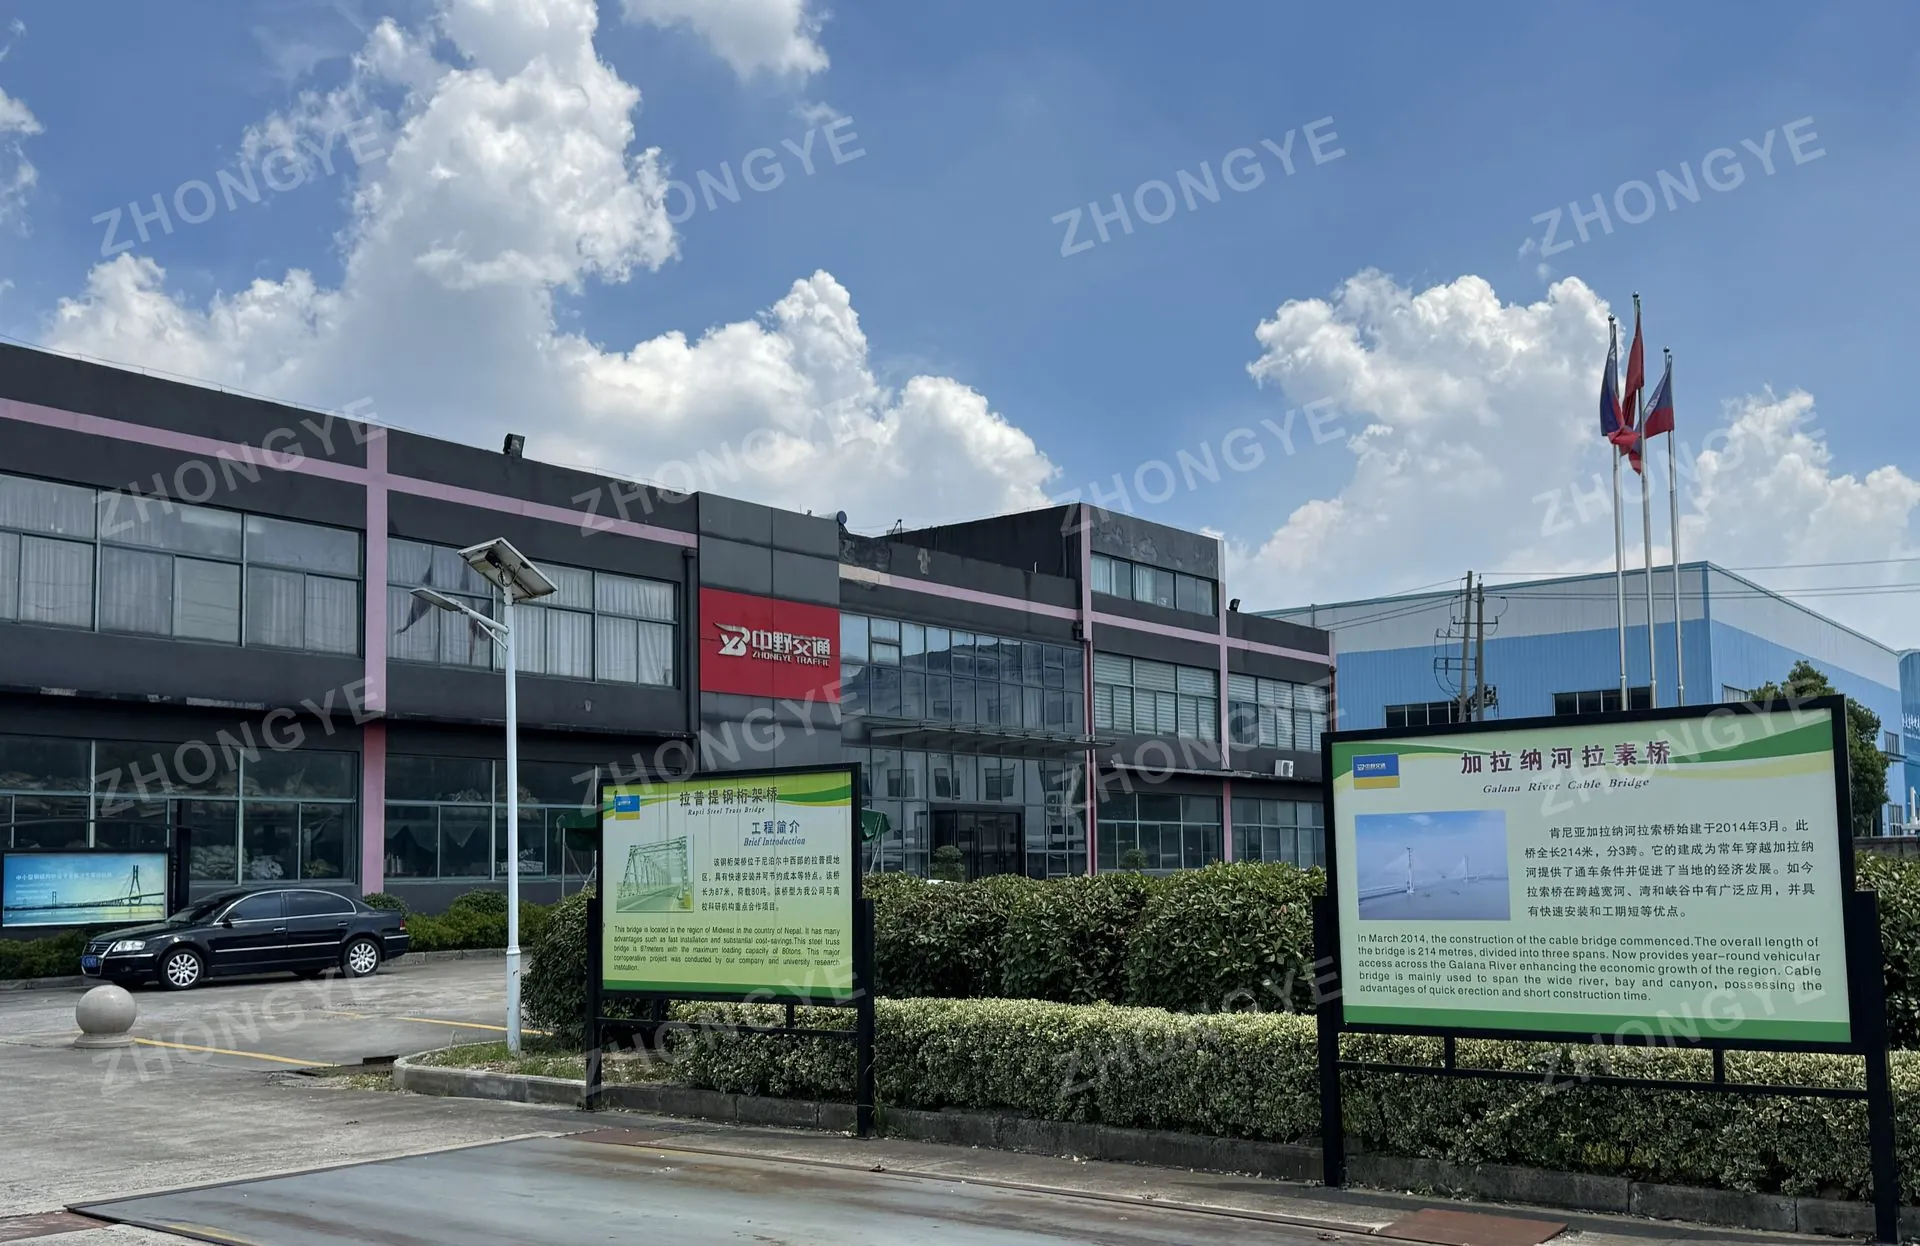
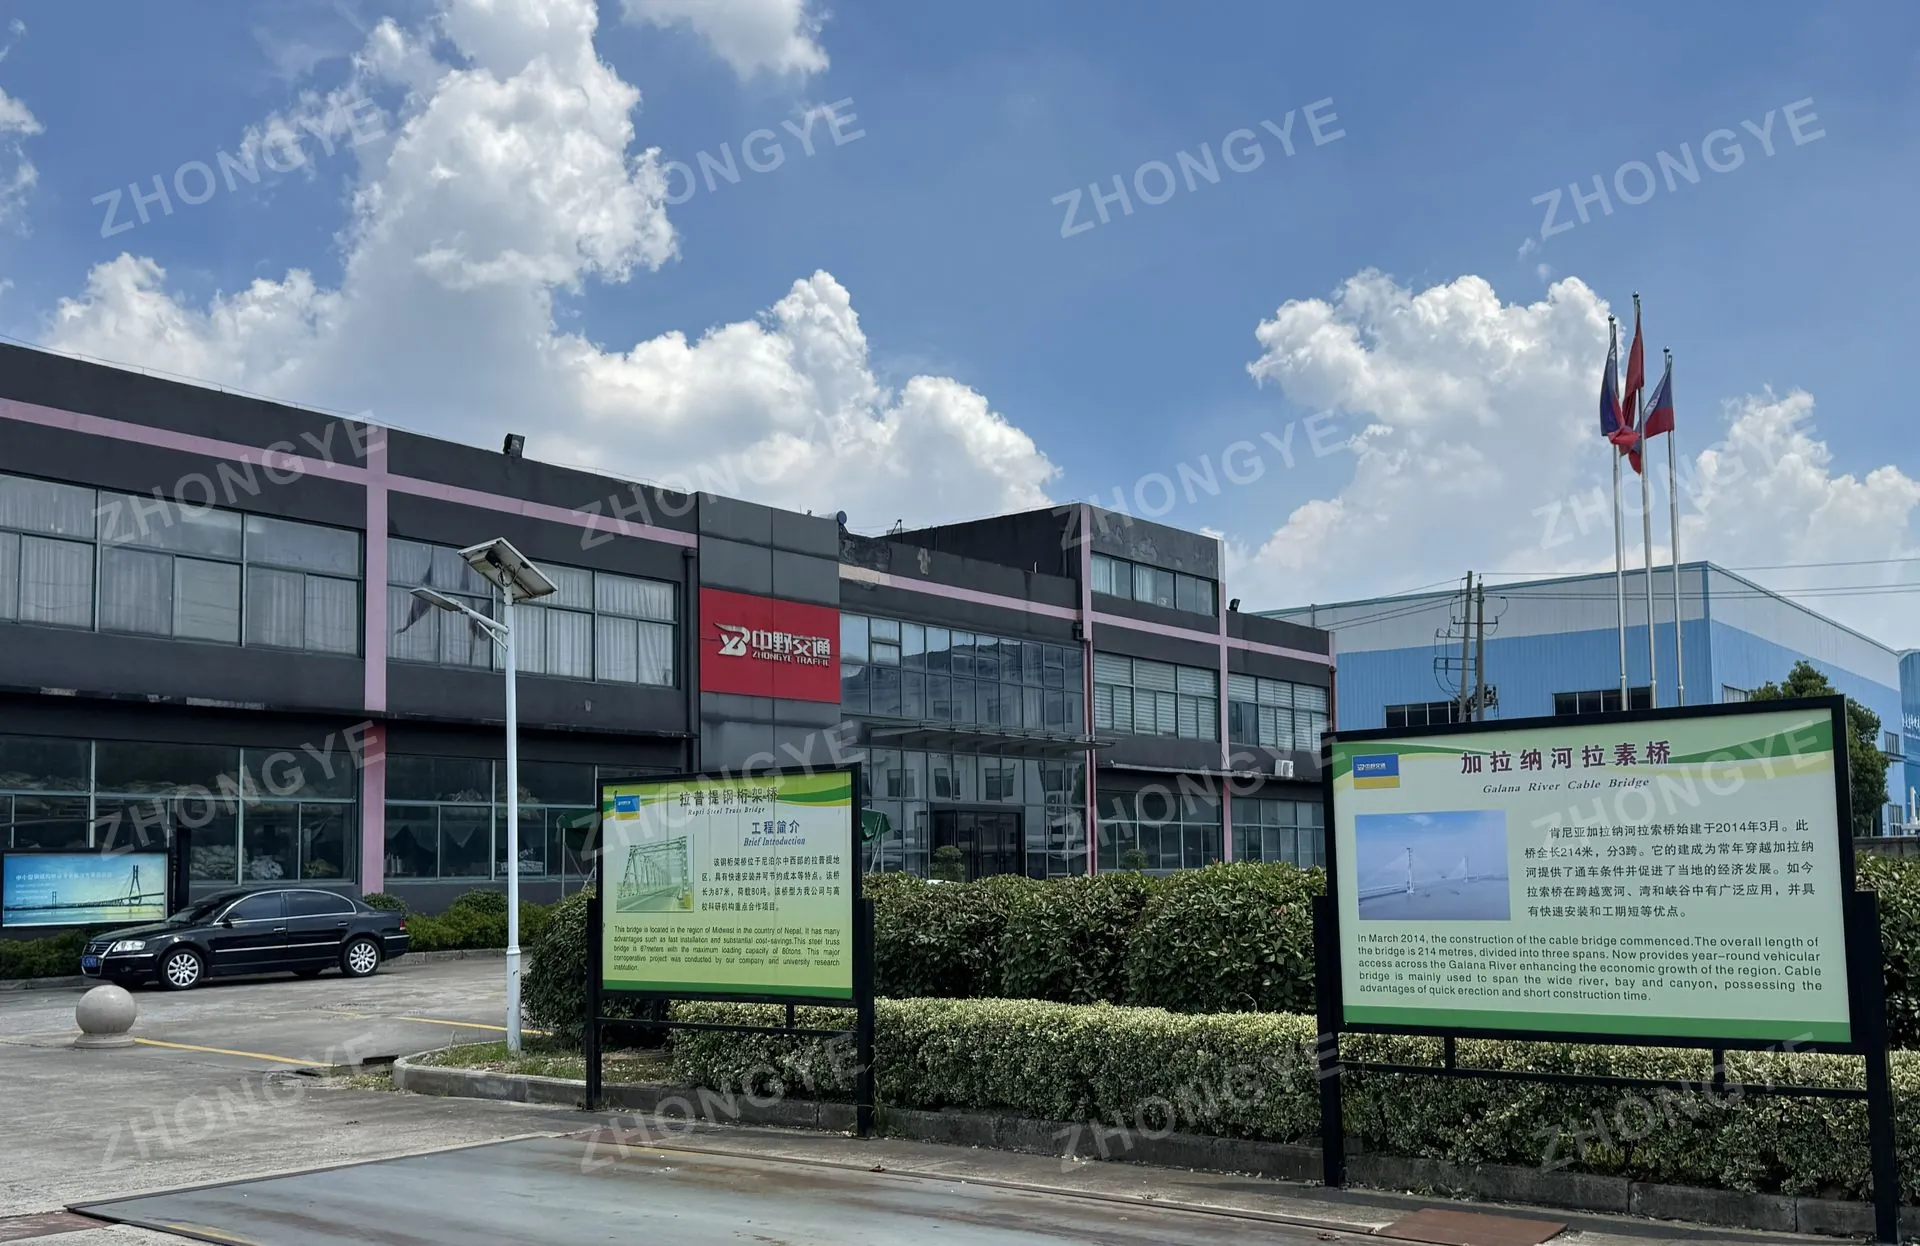
Publish version 2 complete project photo gallery with watermarks

diff --git a/v2.html b/v2.html
@@ -58,9 +58,9 @@
         <p class="project-description">Supporting emergency transport recovery after flooding, Zhongye completed production of 45 Type 321 modular steel bridges, each 30 metres long, within one month. The project demonstrates our ability to coordinate substantial manufacturing volumes and prepare bridge components for supply under a demanding schedule.</p>
         <div class="photo-pair">
           <!-- PHOTO 02: Indonesia factory preparation and component packing. Awaiting photo. -->
-          <figure class="photo-slot" data-image-slot="indonesia-preparation"><img draggable="false" class="placeholder" src="photo-placeholder.svg" width="800" height="600" alt="Photo to be added: Indonesia factory preparation and component packing" loading="lazy"><figcaption>Factory preparation and component packing</figcaption></figure>
+          <figure class="photo-slot" data-image-slot="indonesia-preparation"><img draggable="false" src="indonesia-components-watermarked.webp" width="1440" height="1080" alt="Photo to be added: Indonesia factory preparation and component packing" loading="lazy"><figcaption>Factory preparation and component packing</figcaption></figure>
           <!-- PHOTO 03: Indonesia container loading and dispatch. -->
-          <figure class="photo-slot" data-image-slot="indonesia-dispatch"><img draggable="false" src="indonesia-production.png" width="810" height="606" alt="Container loading at the factory for the Indonesia bridge supply project" loading="lazy"><figcaption>Container loading and dispatch</figcaption></figure>
+          <figure class="photo-slot" data-image-slot="indonesia-dispatch"><img draggable="false" src="indonesia-dispatch-watermarked.webp" width="1600" height="1200" alt="Container loading at the factory for the Indonesia bridge supply project" loading="lazy"><figcaption>Container loading and dispatch</figcaption></figure>
         </div>
       </article>
 
@@ -72,24 +72,24 @@
         <p class="scope"><strong>Zhongye’s scope:</strong> bridge-material supply, quality documentation, and technical training and guidance as required by the project.</p>
         <div class="photo-pair">
           <!-- PHOTO 04: Tibet bridge overview. -->
-          <figure class="photo-slot" data-image-slot="tibet-overview"><img draggable="false" src="tibet-bridge-1.png" width="728" height="546" alt="Modular steel bridge crossing a river gorge in Tibet" loading="lazy"><figcaption>D-type modular steel bridge / River-gorge crossing</figcaption></figure>
+          <figure class="photo-slot" data-image-slot="tibet-overview"><img draggable="false" src="tibet-overview-watermarked.webp" width="1600" height="1200" alt="Modular steel bridge crossing a river gorge in Tibet" loading="lazy"><figcaption>D-type modular steel bridge / River-gorge crossing</figcaption></figure>
           <!-- PHOTO 05: Additional Tibet project photo. Awaiting confirmed photo. -->
-          <figure class="photo-slot" data-image-slot="tibet-detail"><img draggable="false" class="placeholder" src="photo-placeholder.svg" width="800" height="600" alt="Photo to be added: additional Tibet bridge project photograph" loading="lazy"><figcaption>Tibet bridge project / Additional photograph</figcaption></figure>
+          <figure class="photo-slot" data-image-slot="tibet-detail"><img draggable="false" src="tibet-detail-watermarked.webp" width="1600" height="1200" alt="Photo to be added: additional Tibet bridge project photograph" loading="lazy"><figcaption>Tibet bridge project / Additional photograph</figcaption></figure>
         </div>
       </article>
 
       <div class="supporting-grid">
         <article class="project supporting" aria-labelledby="kyrgyzstan-location"><p class="region">CENTRAL ASIA</p><h3 class="location" id="kyrgyzstan-location">Kyrgyzstan<span class="orange-dot">.</span></h3><h4>Two Temporary Steel Bridges</h4><p>Supply of two temporary steel bridges for a project in Kyrgyzstan.</p><div class="photo-pair">
           <!-- PHOTO 06: Existing Kyrgyzstan project photograph. -->
-          <figure class="photo-slot" data-image-slot="kyrgyzstan-components"><img draggable="false" src="kyrgyzstan-bridge.png" width="864" height="647" alt="Steel bridge components for the Kyrgyzstan supply project" loading="lazy"><figcaption>Bridge components</figcaption></figure>
+          <figure class="photo-slot" data-image-slot="kyrgyzstan-components"><img draggable="false" src="kyrgyzstan-stock-watermarked.webp" width="1600" height="1200" alt="Steel bridge components for the Kyrgyzstan supply project" loading="lazy"><figcaption>Bridge components</figcaption></figure>
           <!-- PHOTO 07: Additional Kyrgyzstan photo. Awaiting photo. -->
-          <figure class="photo-slot" data-image-slot="kyrgyzstan-second"><img draggable="false" class="placeholder" src="photo-placeholder.svg" width="800" height="600" alt="Photo to be added: second Kyrgyzstan project photograph" loading="lazy"><figcaption>Additional project photograph</figcaption></figure>
+          <figure class="photo-slot" data-image-slot="kyrgyzstan-second"><img draggable="false" src="kyrgyzstan-launch-watermarked.webp" width="1600" height="1200" alt="Photo to be added: second Kyrgyzstan project photograph" loading="lazy"><figcaption>Additional project photograph</figcaption></figure>
         </div></article>
         <article class="project supporting" aria-labelledby="ecuador-location"><p class="region">SOUTH AMERICA</p><h3 class="location" id="ecuador-location">Ecuador<span class="orange-dot">.</span></h3><h4>27 Type 200 Modular Steel Bridges</h4><p>Supply of 27 Type 200 modular steel bridges for a project in Ecuador.</p><div class="photo-pair">
           <!-- PHOTO 08: Photograph retained from the original Ecuador project card. -->
-          <figure class="photo-slot" data-image-slot="ecuador-components"><img draggable="false" src="ecuador-bridge.png" width="864" height="648" alt="Bridge components and material handling shown in the original Ecuador project record" loading="lazy"><figcaption>Bridge components and material handling</figcaption></figure>
+          <figure class="photo-slot" data-image-slot="ecuador-components"><img draggable="false" src="ecuador-bridge-watermarked.webp" width="1600" height="1200" alt="Bridge components and material handling shown in the original Ecuador project record" loading="lazy"><figcaption>Bridge components and material handling</figcaption></figure>
           <!-- PHOTO 09: Additional Ecuador photo. Awaiting photo. -->
-          <figure class="photo-slot" data-image-slot="ecuador-second"><img draggable="false" class="placeholder" src="photo-placeholder.svg" width="800" height="600" alt="Photo to be added: second Ecuador project photograph" loading="lazy"><figcaption>Additional project photograph</figcaption></figure>
+          <figure class="photo-slot" data-image-slot="ecuador-second"><img draggable="false" src="ecuador-team-watermarked.webp" width="1600" height="1200" alt="Photo to be added: second Ecuador project photograph" loading="lazy"><figcaption>Additional project photograph</figcaption></figure>
         </div></article>
       </div>
     </section>
@@ -99,9 +99,9 @@
       <div class="capabilities"><article><span class="cap-number" aria-hidden="true">01</span><h3>Robotic Welding</h3><p>Four automatic welding robots support repeatable fabrication of modular bridge components.</p></article><article><span class="cap-number" aria-hidden="true">02</span><h3>Coordinated Production</h3><p>Cutting, punching, drilling, welding and material-handling resources support coordinated component manufacturing and preparation for shipment.</p></article><article><span class="cap-number" aria-hidden="true">03</span><h3>Quality Inspection</h3><p>Weld inspection, coating-thickness measurement and dimensional checks support production quality control.</p></article></div>
       <div class="photo-pair manufacturing-photos">
         <!-- PHOTO 10: Robotic welding. Awaiting an actual welding/automated production photo. -->
-        <figure class="photo-slot" data-image-slot="manufacturing-robotic"><img draggable="false" class="placeholder" src="photo-placeholder.svg" width="800" height="600" alt="Photo to be added: robotic welding and automated production" loading="lazy"><figcaption>Robotic welding and automated production</figcaption></figure>
+        <figure class="photo-slot" data-image-slot="manufacturing-robotic"><img draggable="false" src="factory-robot-watermarked.webp" width="1600" height="1200" alt="Photo to be added: robotic welding and automated production" loading="lazy"><figcaption>Robotic welding and automated production</figcaption></figure>
         <!-- PHOTO 11: Workshop operations. -->
-        <figure class="photo-slot" data-image-slot="manufacturing-workshop"><img draggable="false" src="workshop-production.png" width="479" height="318" alt="Workshop employees preparing steel bridge components" loading="lazy"><figcaption>Workshop operations and bridge-component manufacturing</figcaption></figure>
+        <figure class="photo-slot" data-image-slot="manufacturing-workshop"><img draggable="false" src="workshop-watermarked.webp" width="424" height="318" alt="Workshop employees preparing steel bridge components" loading="lazy"><figcaption>Workshop operations and bridge-component manufacturing</figcaption></figure>
       </div>
     </div></section>
 
